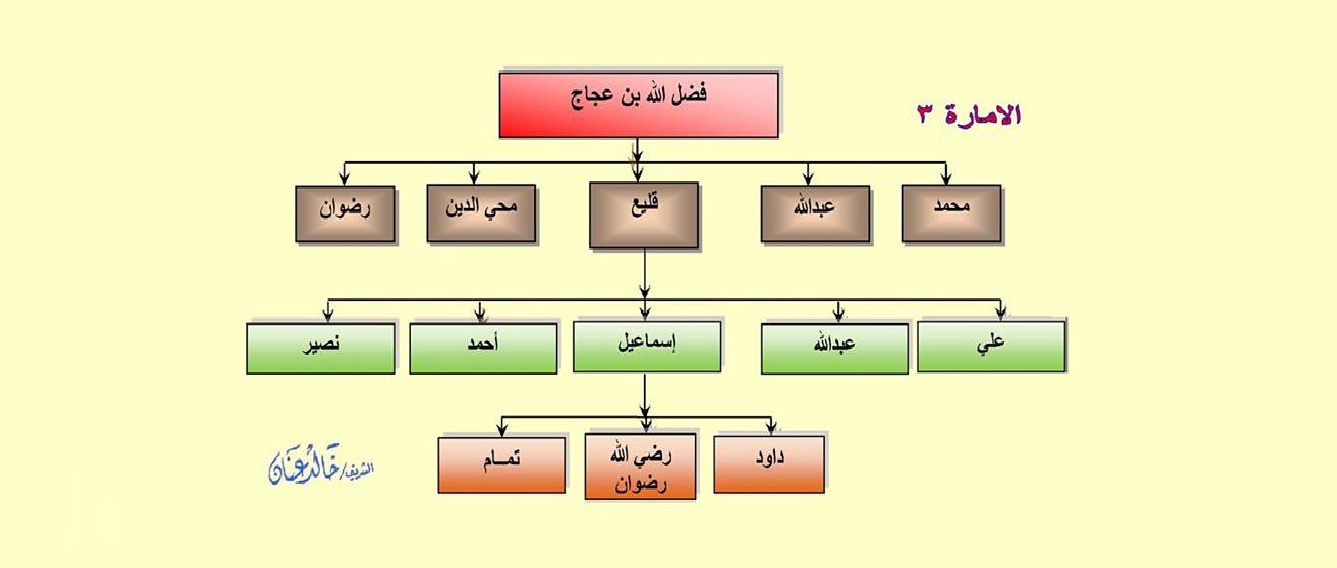
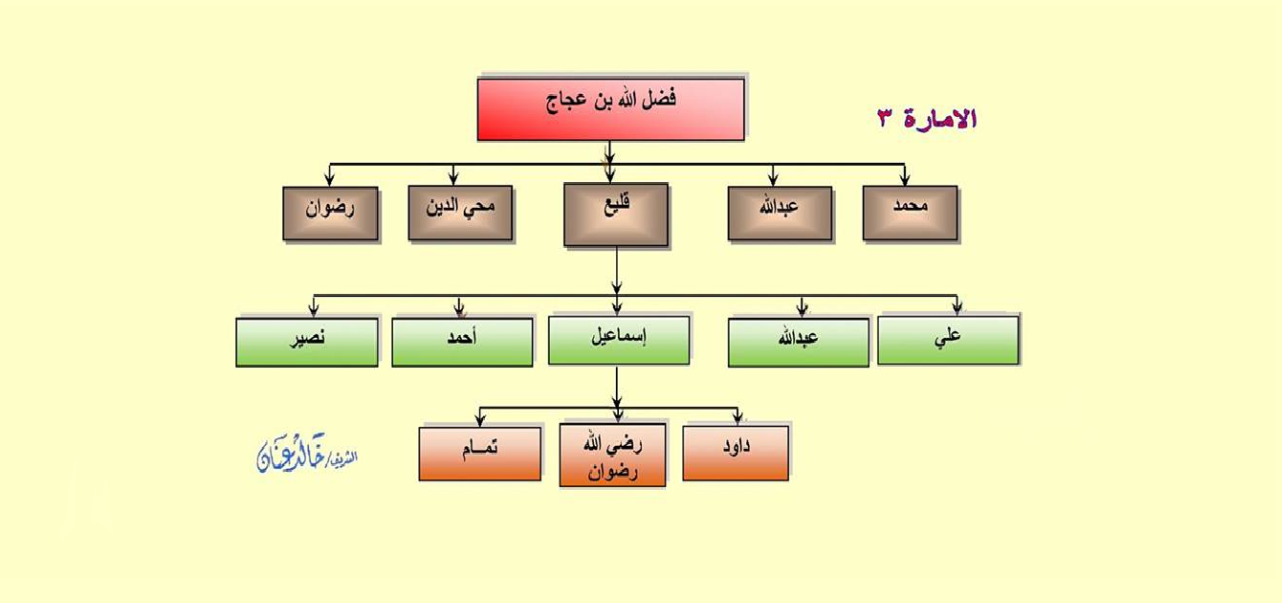
update

Changed region(s): [[0.156, 0.0898, 0.8112, 0.8979], [0.1872, 0.7183, 0.2808, 0.868], [0.6864, 0.1796, 0.78, 0.2394]]

diff --git a/Emarah-3.html b/Emarah-3.html
@@ -6,15 +6,15 @@
 <title>النسب العمري</title>
 <script type="text/javascript">
 <!--
-function FP_preloadImgs() {//v1.0
- var d=document,a=arguments; if(!d.FP_imgs) d.FP_imgs=new Array();
- for(var i=0; i<a.length; i++) { d.FP_imgs[i]=new Image; d.FP_imgs[i].src=a[i]; }
-}
-
 function FP_swapImg() {//v1.0
  var doc=document,args=arguments,elm,n; doc.$imgSwaps=new Array(); for(n=2; n<args.length;
  n+=2) { elm=FP_getObjectByID(args[n]); if(elm) { doc.$imgSwaps[doc.$imgSwaps.length]=elm;
  elm.$src=elm.src; elm.src=args[n+1]; } }
+}
+
+function FP_preloadImgs() {//v1.0
+ var d=document,a=arguments; if(!d.FP_imgs) d.FP_imgs=new Array();
+ for(var i=0; i<a.length; i++) { d.FP_imgs[i]=new Image; d.FP_imgs[i].src=a[i]; }
 }
 
 function FP_getObjectByID(id,o) {//v1.0
@@ -30,15 +30,15 @@ function FP_getObjectByID(id,o) {//v1.0
 </script>
 </head>
 
-<body style="background-color: #FEFEC9" onload="FP_preloadImgs(/*url*/'button1720.gif',/*url*/'button1721.gif',/*url*/'button1789.gif',/*url*/'button1790.gif')">
+<body onload="FP_preloadImgs(/*url*/'button1822.gif',/*url*/'buttonA88.gif',/*url*/'button1824.gif',/*url*/'button1825.gif')" style="background-color: #FEFEC9">
 
-<div id="layer1" style="position: absolute; width: 111px; height: 32px; z-index: 1; left: 11px; top: 24px">
+<div id="layer1" style="position: absolute; width: 111px; height: 34px; z-index: 1; left: 15px; top: 23px">
 	<a href="index.html">
-	<img id="img1" alt="الصفحة الرئيسية" height="22" onmousedown="FP_swapImg(1,0,/*id*/'img1',/*url*/'button1721.gif')" onmouseout="FP_swapImg(0,0,/*id*/'img1',/*url*/'button1722.gif')" onmouseover="FP_swapImg(1,0,/*id*/'img1',/*url*/'button1720.gif')" onmouseup="FP_swapImg(0,0,/*id*/'img1',/*url*/'button1720.gif')" src="button1722.gif" style="border: 0" width="112" /><!-- MSComment="ibutton" fp-style="fp-btn: Metal Capsule 3; fp-font-style: Bold; fp-transparent: 1" fp-title="الصفحة الرئيسية" --></a></div>
-<div id="layer2" style="position: absolute; width: 100px; height: 36px; z-index: 2; left: 730px; top: 507px">
+	<img id="img1" alt="الصفحة الرئيسية" height="23" onmousedown="FP_swapImg(1,0,/*id*/'img1',/*url*/'buttonA88.gif')" onmouseout="FP_swapImg(0,0,/*id*/'img1',/*url*/'button1823.gif')" onmouseover="FP_swapImg(1,0,/*id*/'img1',/*url*/'button1822.gif')" onmouseup="FP_swapImg(0,0,/*id*/'img1',/*url*/'button1822.gif')" src="button1823.gif" style="border: 0" width="113" /><!-- MSComment="ibutton" fp-style="fp-btn: Metal Capsule 3; fp-font-style: Bold; fp-transparent: 1" fp-title="الصفحة الرئيسية" --></a></div>
+<div id="layer2" style="position: absolute; width: 100px; height: 34px; z-index: 2; left: 703px; top: 498px">
 	<a href="Mohammed%20Quleihy.html">
-	<img id="img2" alt="الاحفاد" height="20" onmousedown="FP_swapImg(1,0,/*id*/'img2',/*url*/'button1790.gif')" onmouseout="FP_swapImg(0,0,/*id*/'img2',/*url*/'button1791.gif')" onmouseover="FP_swapImg(1,0,/*id*/'img2',/*url*/'button1789.gif')" onmouseup="FP_swapImg(0,0,/*id*/'img2',/*url*/'button1789.gif')" src="button1791.gif" style="border: 0" width="100" /><!-- MSComment="ibutton" fp-style="fp-btn: Metal Capsule 6; fp-font-style: Bold; fp-transparent: 1" fp-title="الاحفاد" --></a></div>
-<img alt="" height="568" src="Emarah-3.png" width="1337" />
+	<img id="img2" alt="الاحفاد" height="20" onmousedown="FP_swapImg(1,0,/*id*/'img2',/*url*/'button1825.gif')" onmouseout="FP_swapImg(0,0,/*id*/'img2',/*url*/'button1826.gif')" onmouseover="FP_swapImg(1,0,/*id*/'img2',/*url*/'button1824.gif')" onmouseup="FP_swapImg(0,0,/*id*/'img2',/*url*/'button1824.gif')" src="button1826.gif" style="border: 0" width="100" /><!-- MSComment="ibutton" fp-style="fp-btn: Metal Capsule 6; fp-font-style: Bold; fp-transparent: 1" fp-title="الاحفاد" --></a></div>
+<img alt="" height="603" src="Emarah-3.png" width="1282" />
 
 </body>
 

diff --git a/Mohammed Quleihy.html b/Mohammed Quleihy.html
@@ -30,11 +30,11 @@ function FP_getObjectByID(id,o) {//v1.0
 </script>
 </head>
 
-<body onload="FP_preloadImgs(/*url*/'button1786.gif',/*url*/'button1787.gif')" style="background-color: #DEFF2F">
+<body onload="FP_preloadImgs(/*url*/'button1827.gif',/*url*/'button1828.gif')" style="background-color: #DEFF2F">
 
-<div id="layer1" style="position: absolute; width: 113px; height: 33px; z-index: 1; left: 10px; top: 15px">
+<div id="layer1" style="position: absolute; width: 114px; height: 31px; z-index: 1; left: 20px; top: 24px">
 	<a href="index.html">
-	<img id="img1" alt="الصفحة الرئيسية" height="23" onmousedown="FP_swapImg(1,0,/*id*/'img1',/*url*/'button1787.gif')" onmouseout="FP_swapImg(0,0,/*id*/'img1',/*url*/'button1788.gif')" onmouseover="FP_swapImg(1,0,/*id*/'img1',/*url*/'button1786.gif')" onmouseup="FP_swapImg(0,0,/*id*/'img1',/*url*/'button1786.gif')" src="button1788.gif" style="border: 0" width="113" /><!-- MSComment="ibutton" fp-style="fp-btn: Metal Capsule 3; fp-font-style: Bold; fp-transparent: 1" fp-title="الصفحة الرئيسية" --></a></div>
+	<img id="img1" alt="الصفحة الرئيسية" height="23" onmousedown="FP_swapImg(1,0,/*id*/'img1',/*url*/'button1828.gif')" onmouseout="FP_swapImg(0,0,/*id*/'img1',/*url*/'button1829.gif')" onmouseover="FP_swapImg(1,0,/*id*/'img1',/*url*/'button1827.gif')" onmouseup="FP_swapImg(0,0,/*id*/'img1',/*url*/'button1827.gif')" src="button1829.gif" style="border: 0" width="113" /><!-- MSComment="ibutton" fp-style="fp-btn: Metal Capsule 3; fp-font-style: Bold; fp-transparent: 1" fp-title="الصفحة الرئيسية" --></a></div>
 <img alt="" height="605" src="Mohammed%20Quleihy.png" width="1283" />
 
 </body>
